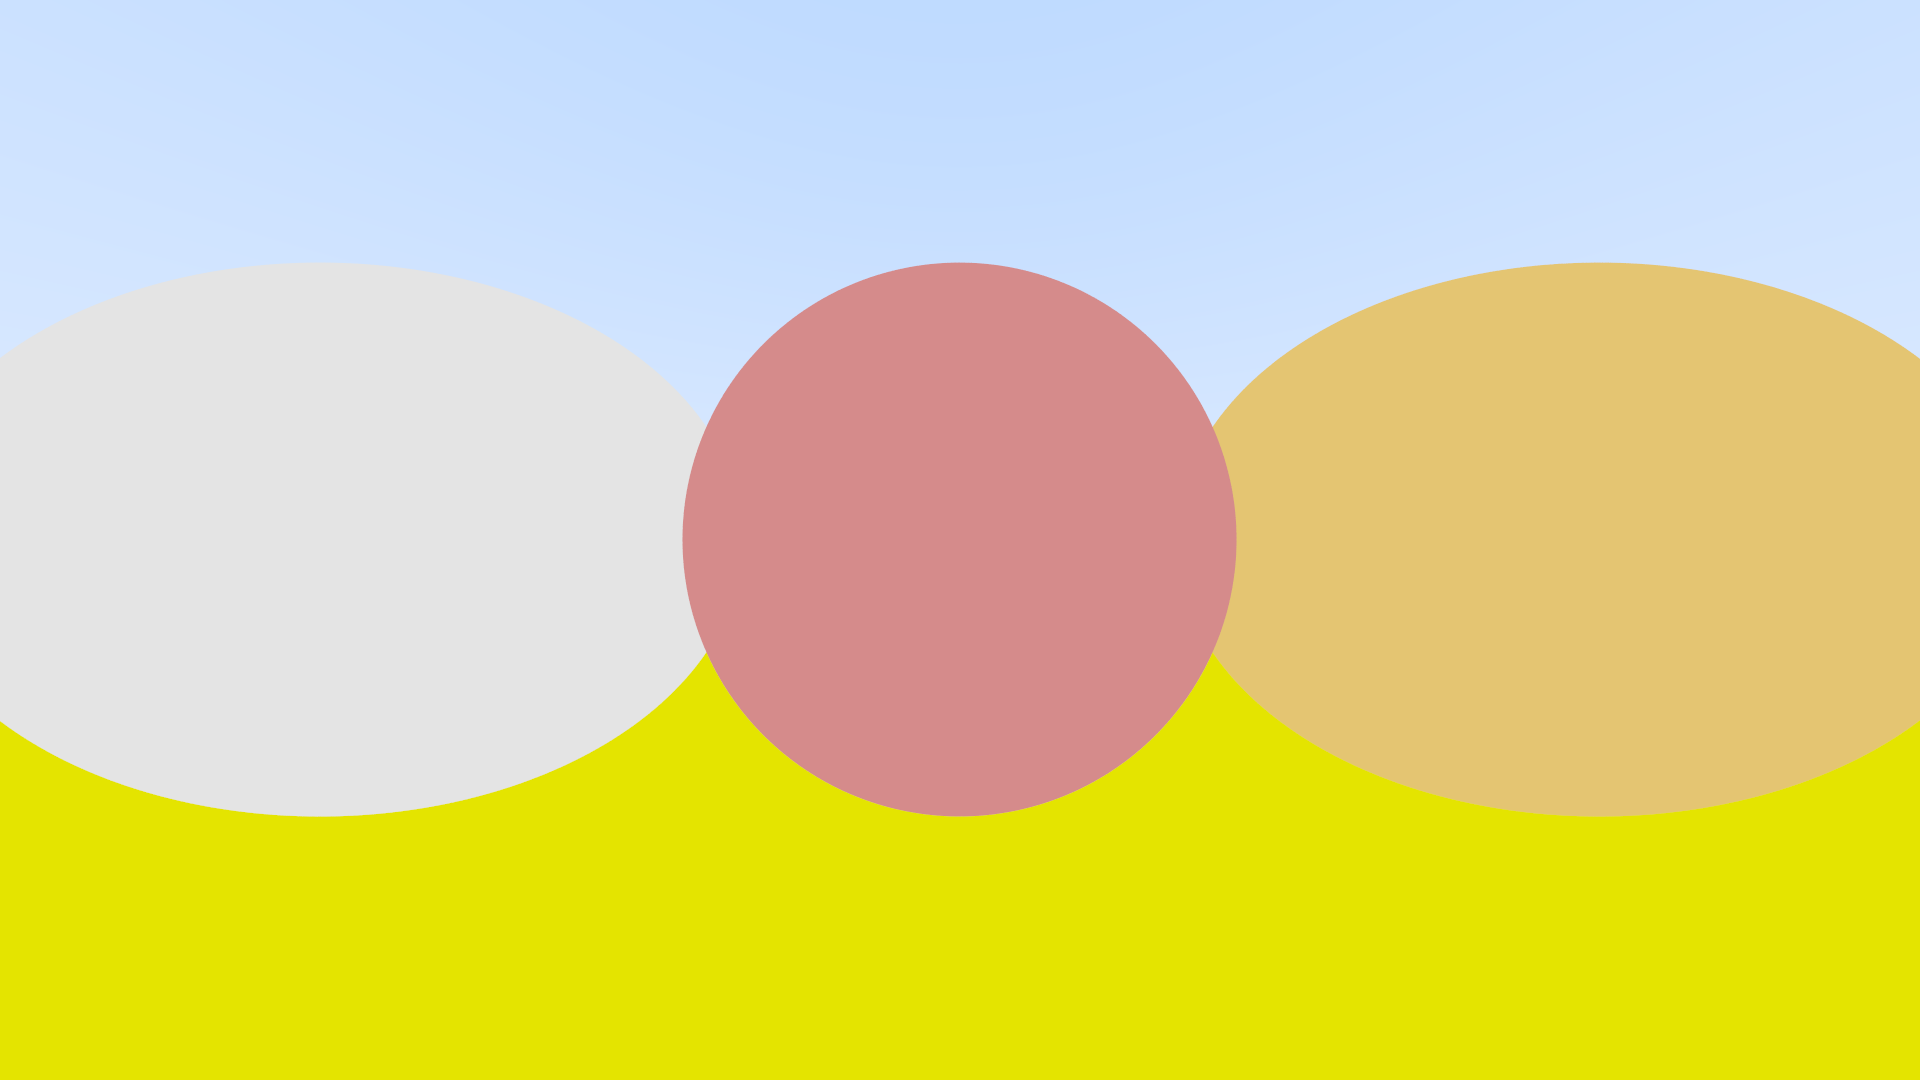
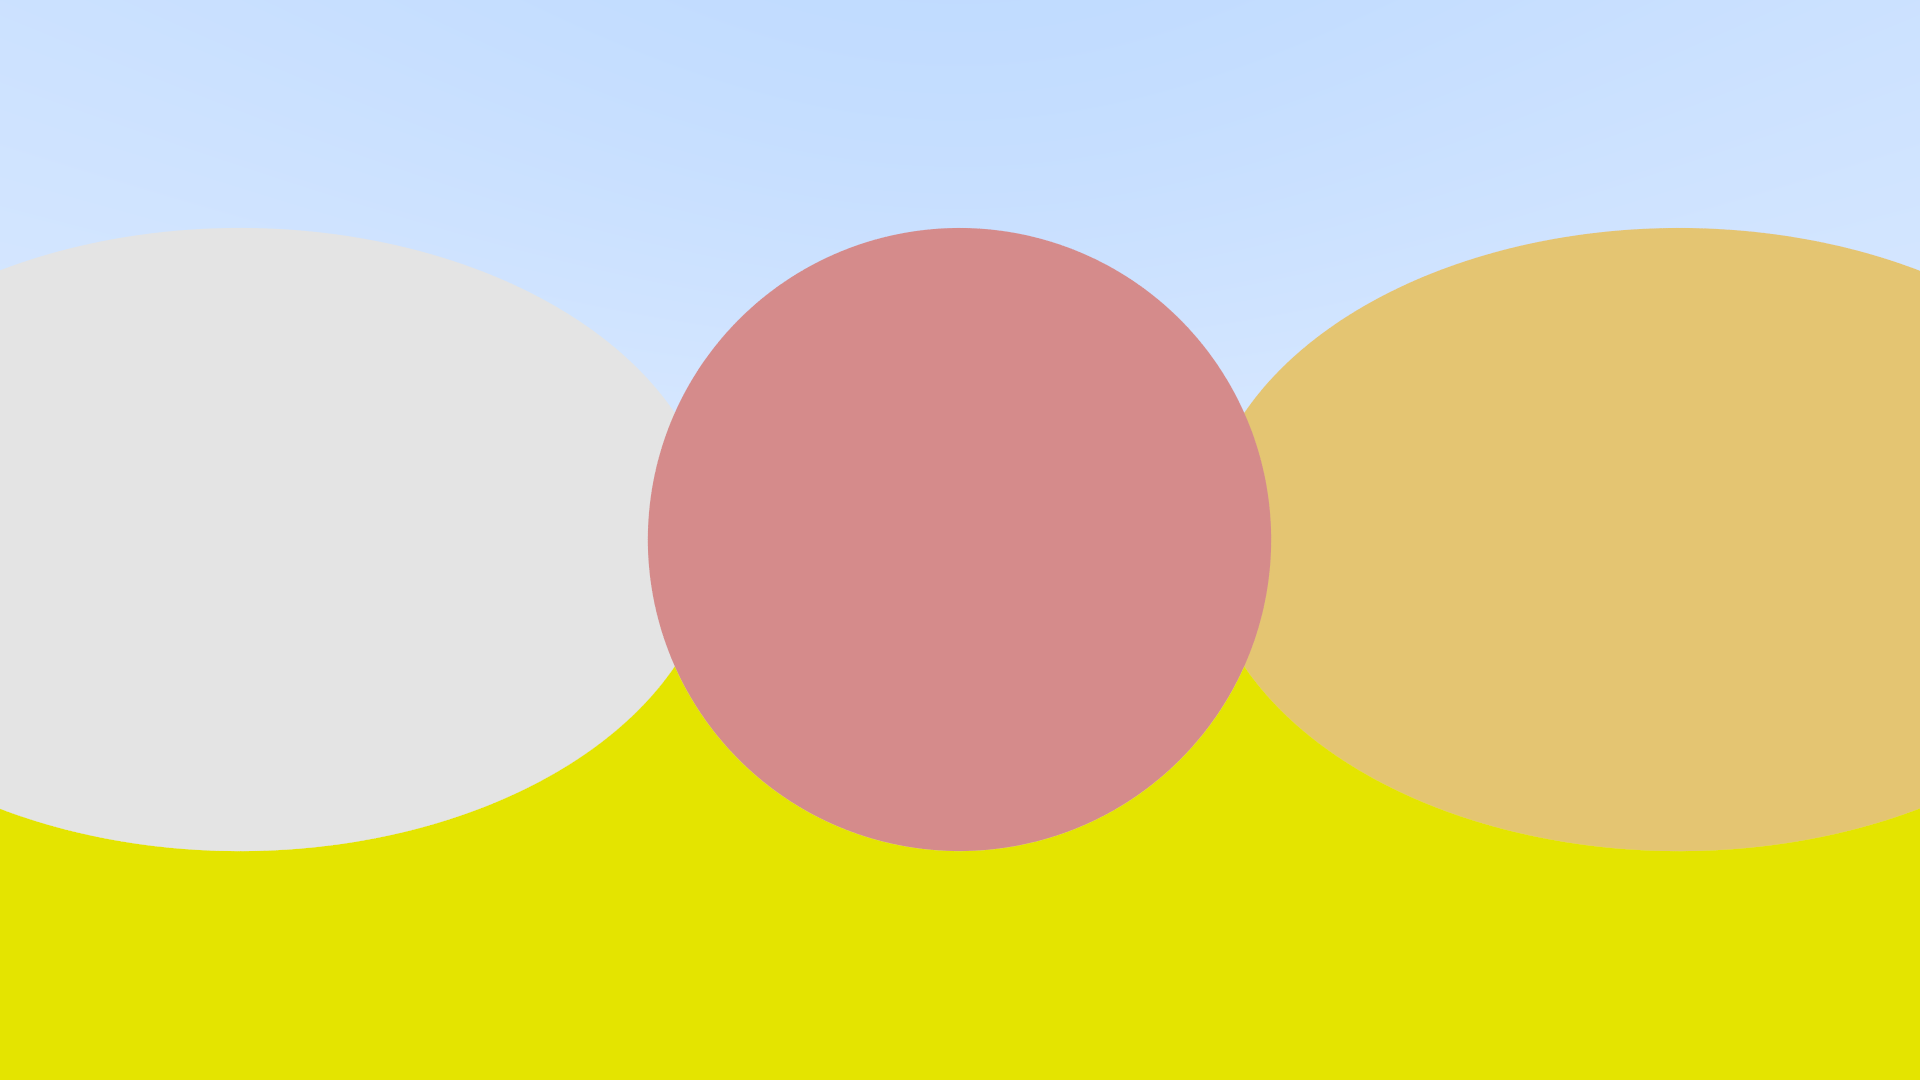
Camera FOV, scene def

diff --git a/src/scene.rs b/src/scene.rs
@@ -1,49 +1,23 @@
-use serde::Deserialize;
 use crate::{
-    color::Color,
-    material::Material,
-    math::{Float, Ray, Vector2, Vector3},
-    shapes::Sphere,
+    background::Background,
+    camera::Camera,
+    def::SceneDef,
+    math::Float,
+    object::Object,
 };
 
-#[derive(Deserialize)]
 pub struct Scene<F> {
     pub camera: Camera<F>,
     pub background: Background<F>,
-    pub objects: Vec<SceneObject<F>>,
+    pub objects: Vec<Object<F>>,
 }
 
-#[derive(Deserialize)]
-pub struct SceneObject<F> {
-    pub shape: Sphere<F>,
-    pub material: Material<F>,
-}
-
-#[derive(Deserialize)]
-pub struct Background<F> {
-    pub top: Color<F>,
-    pub bottom: Color<F>,
-}
-
-impl<F: Float> Background<F> {
-    pub fn color(&self, ray: &Ray<F>) -> Color<F> {
-        let t = F::HALF * (ray.direction.y + F::ONE);
-        self.bottom.lerp(&self.top, t)
-    }
-}
-
-#[derive(Deserialize)]
-pub struct Camera<F> {
-    pub eye: Vector3<F>, 
-    pub right: Vector3<F>,
-    pub up: Vector3<F>,
-}
-
-impl<F: Float> Camera<F> {
-    pub fn ray(&self, uv: Vector2<F>) -> Ray<F> {
-        Ray {
-            origin: self.eye,
-            direction: (self.right * (uv.x - F::HALF) + self.up * (uv.y - F::HALF) - Vector3::new(F::ZERO, F::ZERO, F::ONE)).normalized(),
+impl<F: Float> Scene<F> {
+    pub fn load(def: SceneDef<F>, aspect: F) -> Self {
+        Self {
+            camera: Camera::new(def.camera.fov, aspect),
+            background: def.background,
+            objects: def.objects,
         }
-    } 
+    }
 }

diff --git a/src/camera.rs b/src/camera.rs
@@ -1,0 +1,34 @@
+use crate::math::{Float, Ray, Vector2, Vector3};
+
+pub struct Camera<F> {
+    eye: Vector3<F>, 
+    right: Vector3<F>,
+    up: Vector3<F>,
+    focal_length: F,
+}
+
+impl<F: Float> Camera<F> {
+    pub fn new(fov: F, aspect: F) -> Self {
+        let theta = fov.to().to_radians();
+        let h = (0.5 * theta).tan();
+        let viewport_height = F::of(2.0 * h);
+        let viewport_width = aspect * viewport_height;
+        let focal_length = F::ONE;
+        let eye = Vector3::ZERO;
+        let right = Vector3::new(viewport_width, F::ZERO, F::ZERO);
+        let up = Vector3::new(F::ZERO, viewport_height, F::ZERO);
+        Self {
+            eye,
+            right,
+            up,
+            focal_length,
+        }
+    }
+
+    pub fn ray(&self, uv: Vector2<F>) -> Ray<F> {
+        Ray {
+            origin: self.eye,
+            direction: (self.right * (uv.x - F::HALF) + self.up * (uv.y - F::HALF) - Vector3::new(F::ZERO, F::ZERO, self.focal_length)).normalized(),
+        }
+    } 
+}

diff --git a/src/main.rs b/src/main.rs
@@ -1,8 +1,12 @@
+mod background;
+mod camera;
 mod color;
 mod config;
+mod def;
 mod image;
 mod material;
 mod math;
+mod object;
 mod random;
 mod ray_marcher;
 mod ray_tracer;
@@ -17,6 +21,7 @@ use std::{
     time::Instant,
 };
 use config::Config;
+use def::SceneDef;
 use image::Image;
 use math::Float;
 use ray_marcher::RayMarcher;
@@ -60,7 +65,9 @@ fn render<F: Float, P: PixelRenderer>(pixel_renderer: P, scene: &Scene<F>, confi
 }
 
 fn run<F: Float>(config: &Config) -> RayResult<()> {
-    let scene = load_json::<Scene<F>>("scene.json")?;
+    let def = load_json::<SceneDef<F>>("scene.json")?;
+    let aspect = F::of(config.image.width as f64 / config.image.height as f64);
+    let scene = Scene::load(def, aspect);
     render(RayTracer::new(config.max_depth), &scene, &config, "ray-tracer.png")?;
     render(RayMarcher::new(), &scene, &config, "ray-marcher.png")?;
     Ok(())

diff --git a/src/background.rs b/src/background.rs
@@ -1,0 +1,18 @@
+use serde::Deserialize;
+use crate::{
+    color::Color,
+    math::{Float, Ray},
+};
+
+#[derive(Deserialize)]
+pub struct Background<F> {
+    pub top: Color<F>,
+    pub bottom: Color<F>,
+}
+
+impl<F: Float> Background<F> {
+    pub fn color(&self, ray: &Ray<F>) -> Color<F> {
+        let t = F::HALF * (ray.direction.y + F::ONE);
+        self.bottom.lerp(&self.top, t)
+    }
+}

diff --git a/src/def.rs b/src/def.rs
@@ -1,0 +1,17 @@
+use serde::Deserialize;
+use crate::{
+    background::Background,
+    object::Object,
+};
+
+#[derive(Deserialize)]
+pub struct SceneDef<F> {
+    pub camera: CameraDef<F>,
+    pub background: Background<F>,
+    pub objects: Vec<Object<F>>,
+}
+
+#[derive(Deserialize)]
+pub struct CameraDef<F> {
+    pub fov: F,
+}

diff --git a/src/math.rs b/src/math.rs
@@ -84,6 +84,8 @@ impl<F> Vector3<F> {
 }
 
 impl<F: Float> Vector3<F> {
+    pub const ZERO: Self = Self::new(F::ZERO, F::ZERO, F::ZERO);
+    
     pub fn normalized(self) -> Self {
         let scale = F::ONE / self.length();
         Self::new(self.x * scale, self.y * scale, self.z * scale)

diff --git a/src/object.rs b/src/object.rs
@@ -1,0 +1,11 @@
+use serde::Deserialize;
+use crate::{
+    shapes::Sphere,
+    material::Material,
+};
+
+#[derive(Deserialize)]
+pub struct Object<F> {
+    pub shape: Sphere<F>,
+    pub material: Material<F>,
+}
